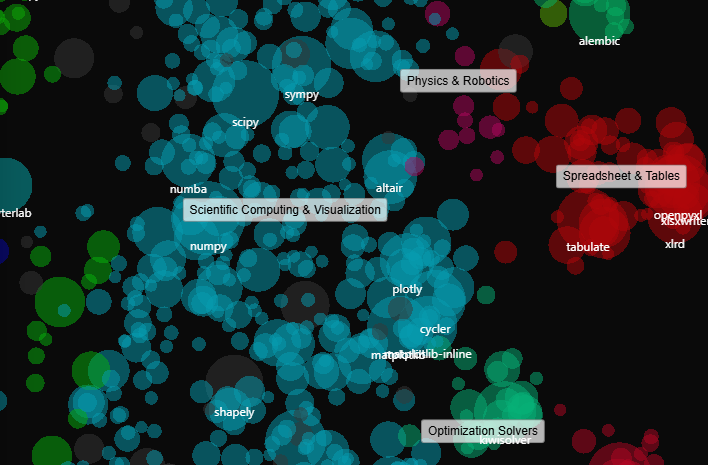
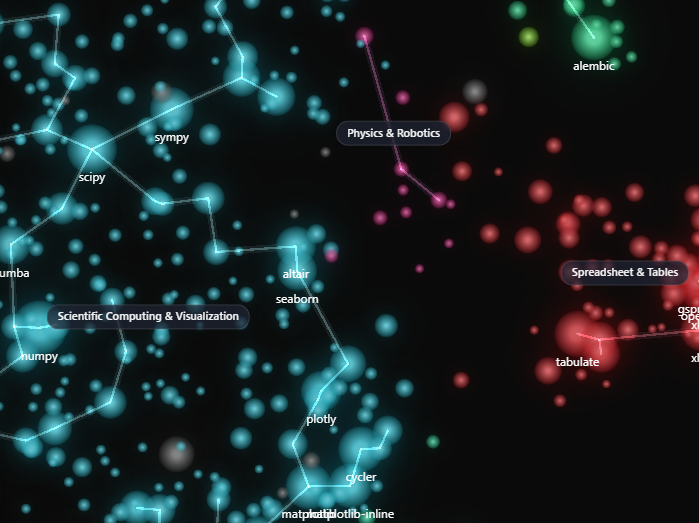
better screenshot

diff --git a/README.md b/README.md
@@ -2,7 +2,7 @@
 
 <p align="center">
   <a href="https://pyatlas.io">
-    <img src="public/screenshot.png" alt="Screenshot of PyAtlas" width="708">
+    <img src="public/screenshot.png" alt="Screenshot of PyAtlas" width="699">
   </a>
 </p>
 
